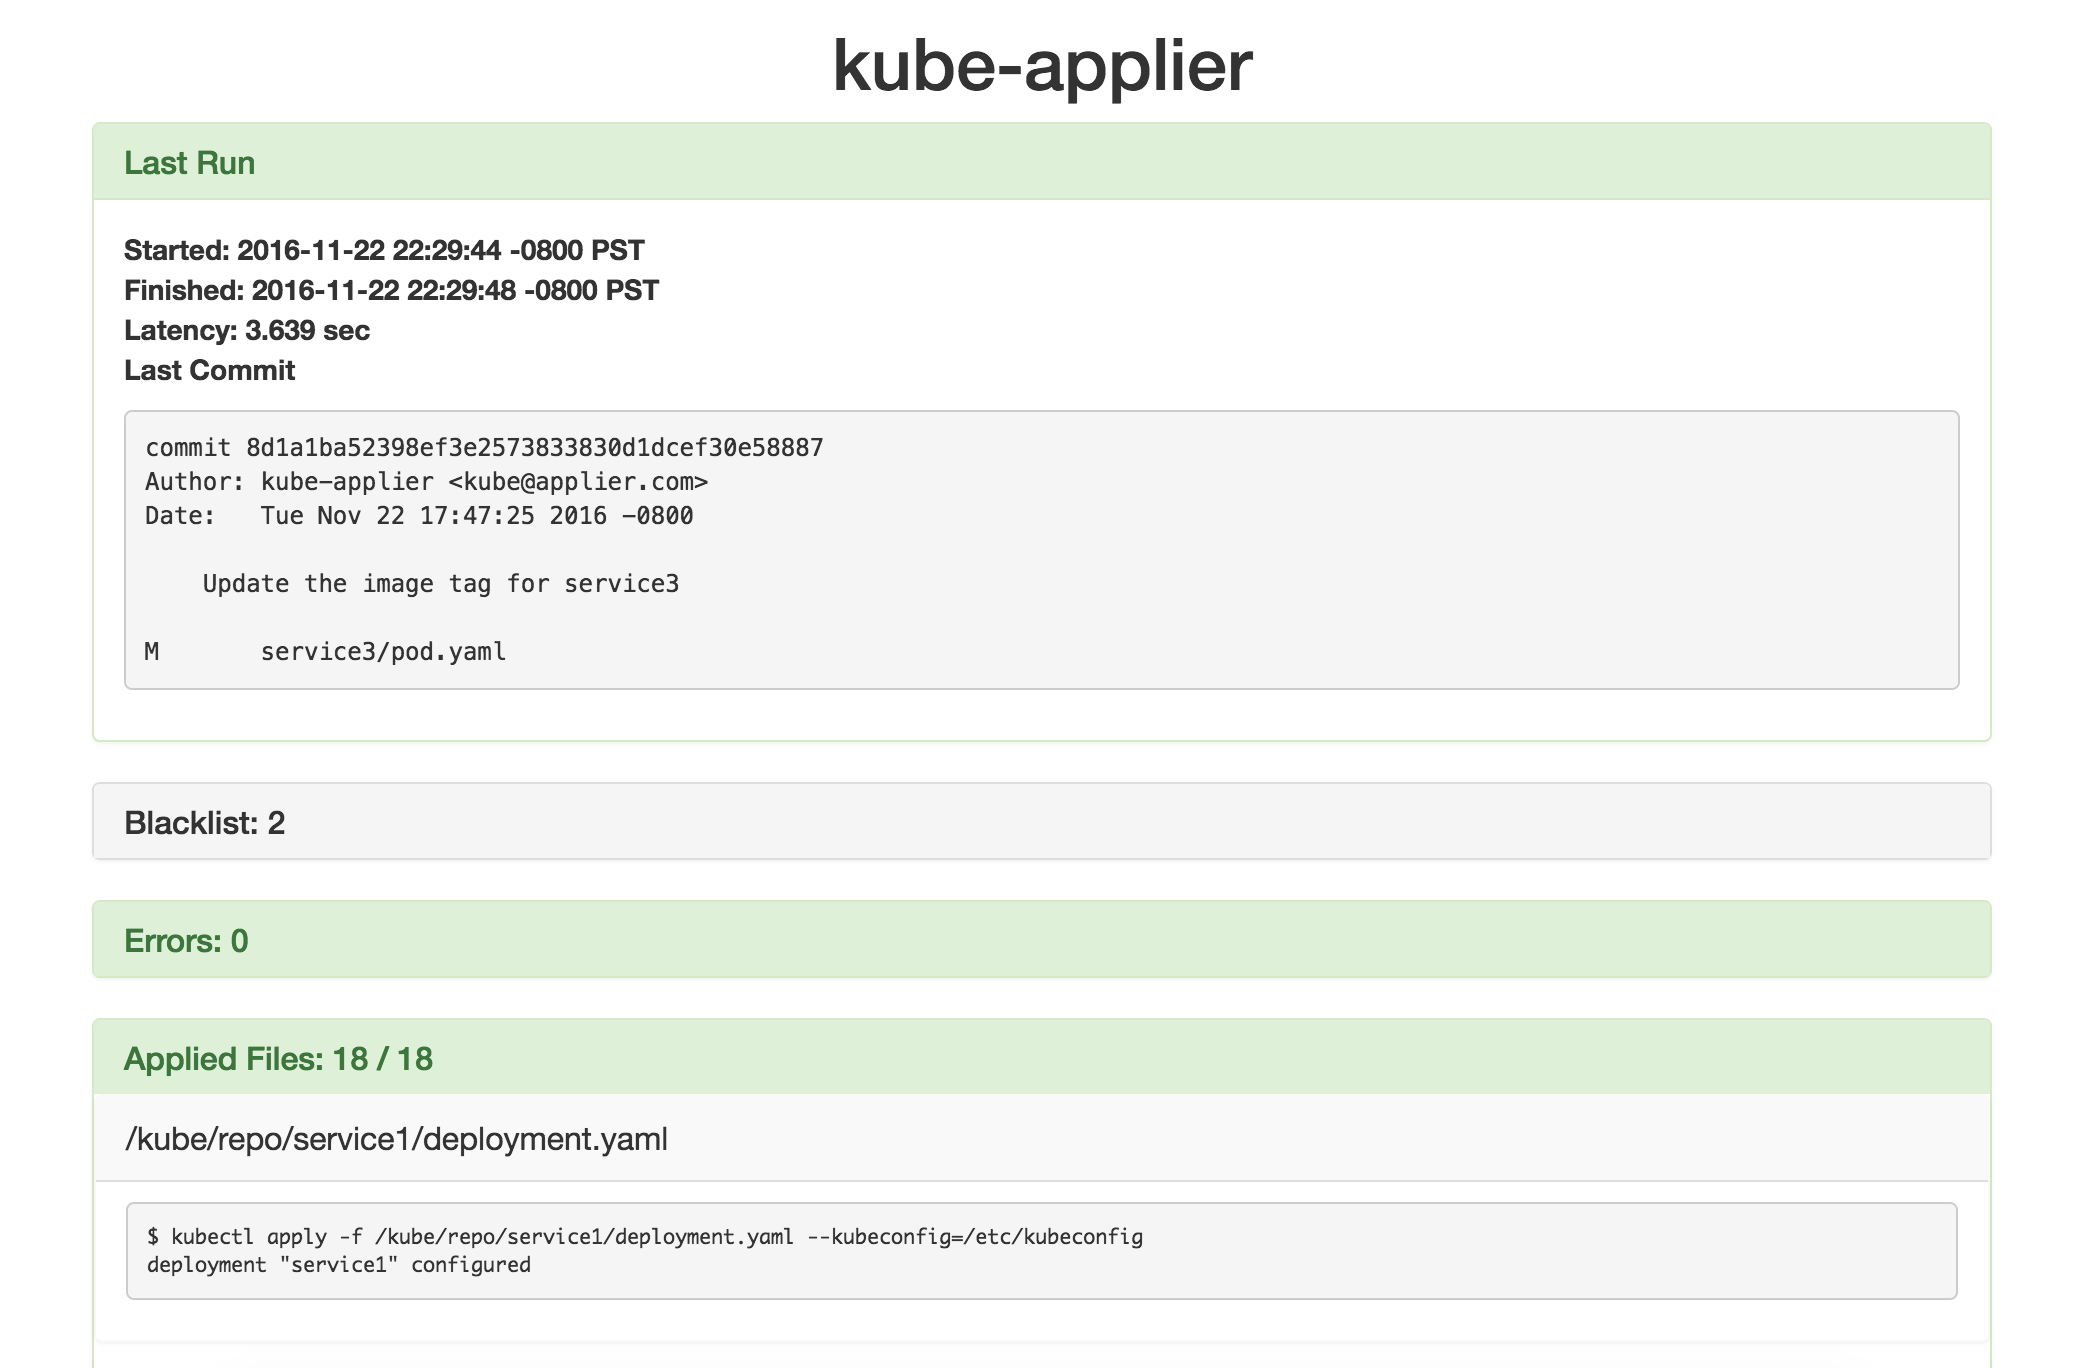
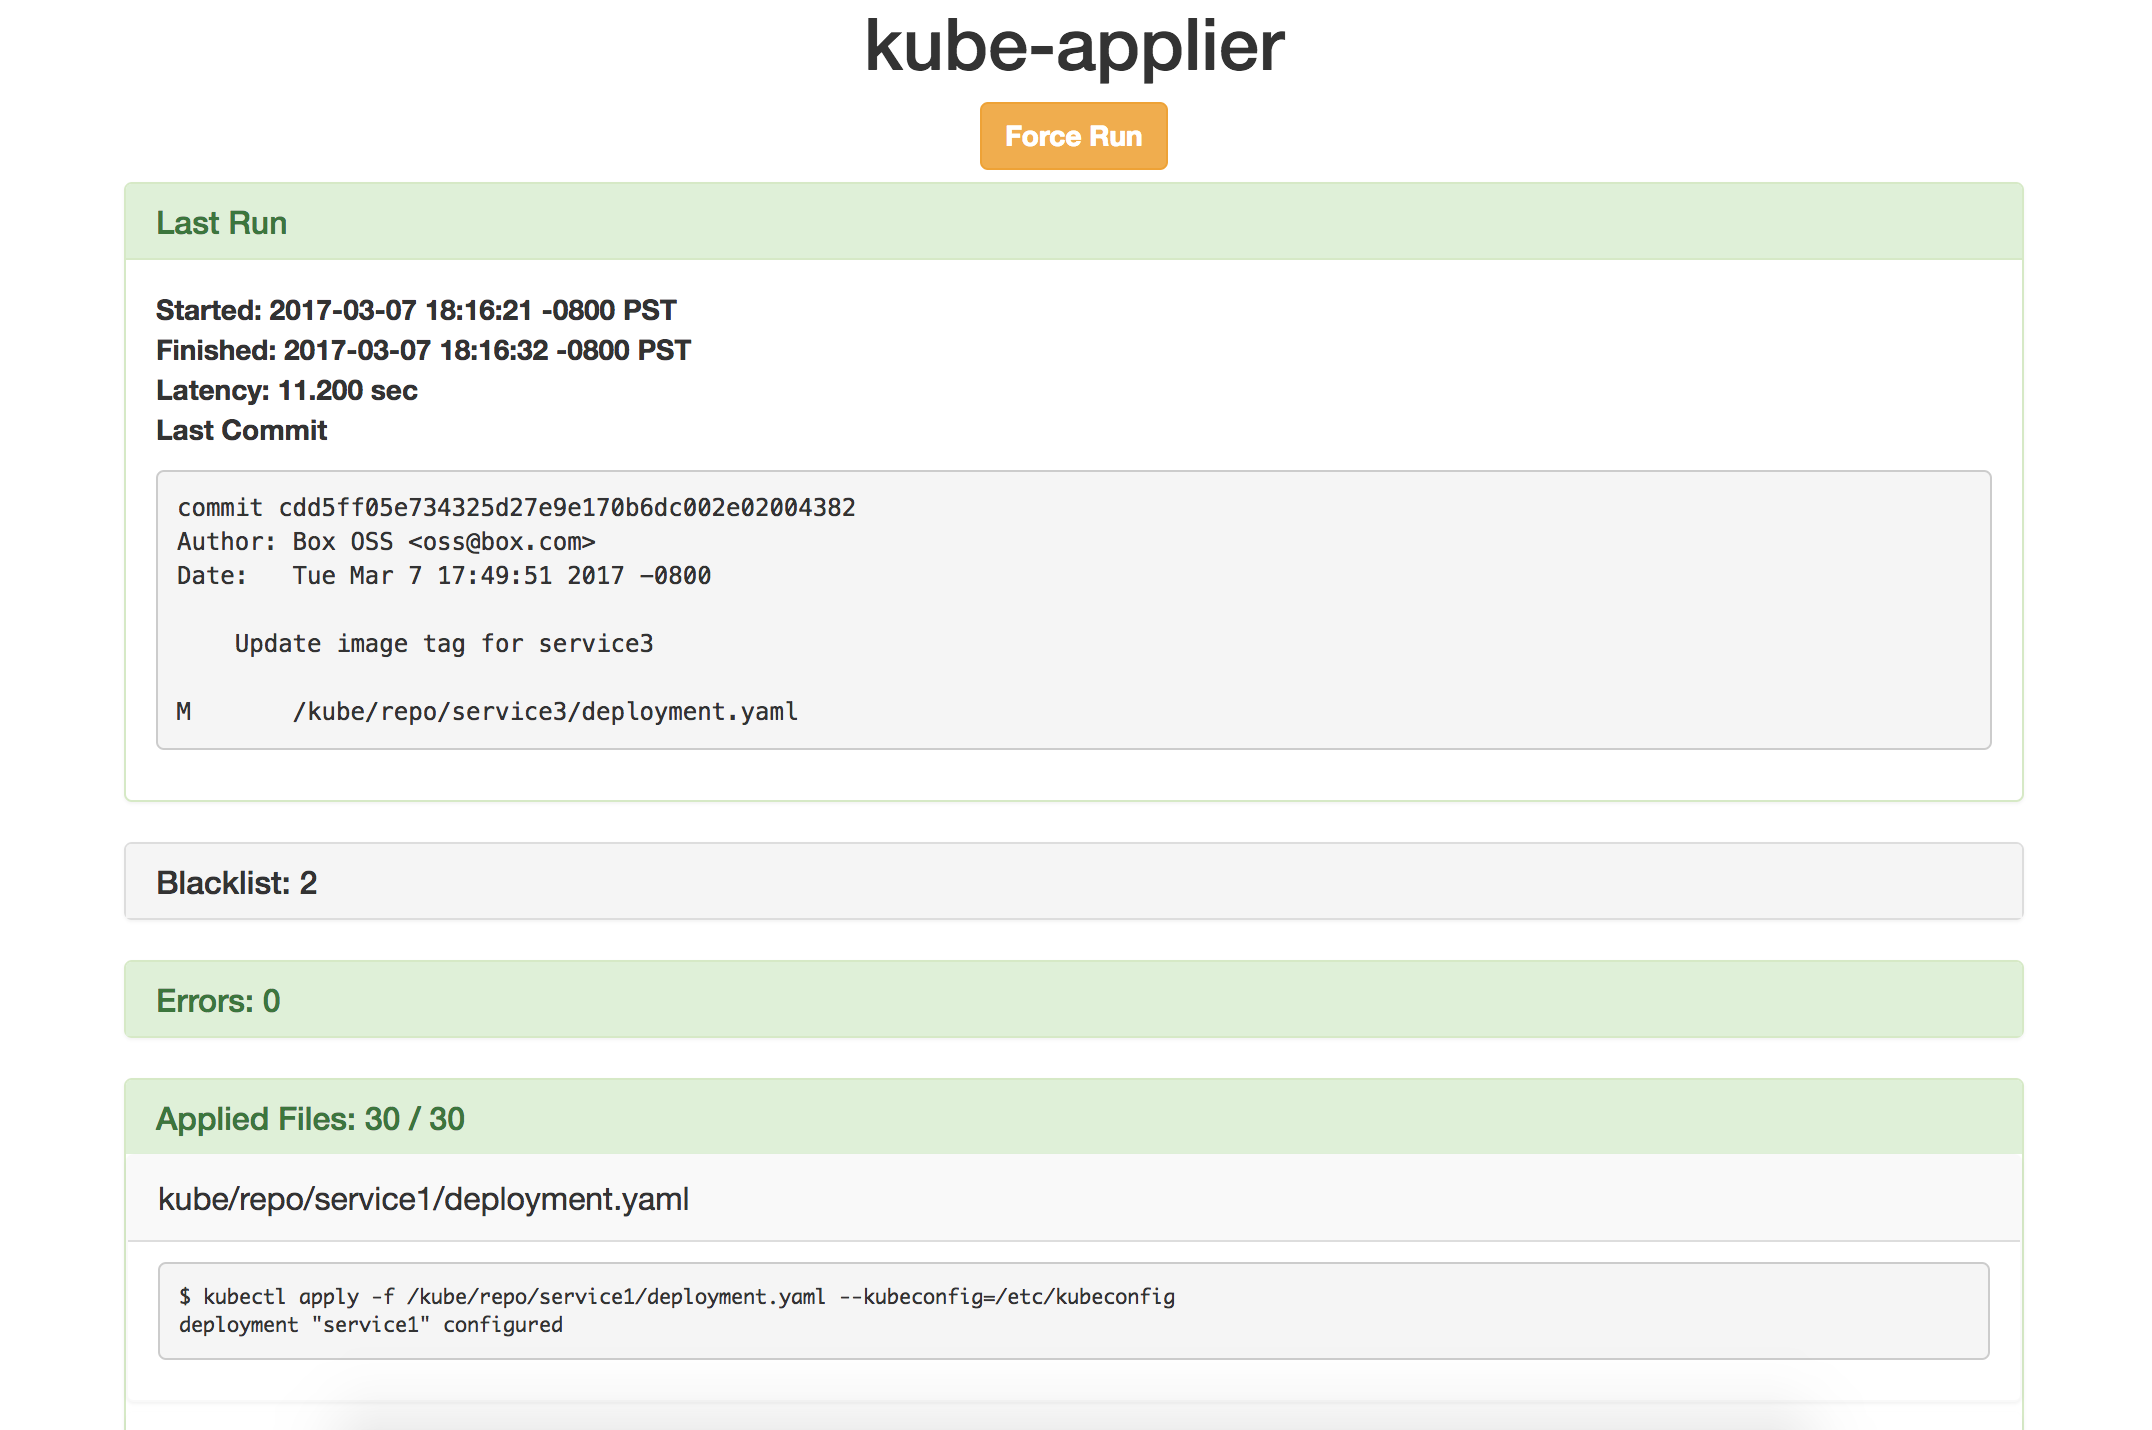
Update README

Changed region(s): [[0.0312, 0.0, 0.9669, 0.5526], [0.0312, 0.5833, 0.9669, 0.9518], [0.0624, 0.4912, 0.0936, 0.5219]]

diff --git a/README.md b/README.md
@@ -15,6 +15,7 @@ kube-applier serves a [status page](#status-ui) and provides [metrics](#metrics)
 * [Docker (1.10+)](https://docs.docker.com/engine/getstarted/step_one/#step-1-get-docker)
 * [Kubernetes cluster (1.2+)](http://kubernetes.io/docs/getting-started-guides/binary_release/)
     * The kubectl version specified in the Dockerfile must be either the same minor release as the cluster API server, or one release behind the server (e.g. client 1.3 and server 1.4 is fine, but client 1.4 and server 1.3 is not).
+    * There are [many](https://github.com/kubernetes/kubernetes/issues/40119) [known](https://github.com/kubernetes/kubernetes/issues/29542) [issues](https://github.com/kubernetes/kubernetes/issues/39906) with using `kubectl apply` to apply ThirdPartyResource objects. These issues will be [fixed in Kubernetes 1.6](https://github.com/kubernetes/kubernetes/pull/40666).
 
 ## Setup
 
@@ -91,6 +92,8 @@ Given that the `$REPO_PATH` directory is a Git repo or located within one, it is
 
 No. If a file is removed from the `$REPO_PATH` directory, kube-applier will no longer apply the file, but kube-applier **WILL NOT** delete the cluster object(s) described by the file. These objects must be manually cleaned up using `kubectl delete`.
 
+### "Force Run" Feature
+In rare cases, you may wish to trigger a kube-applier run without checking in a commit or waiting for the next scheduled run (e.g. some of your files failed to apply because of some background condition in the cluster, and you have fixed it since the last run). This can be accomplished with the "Force Run" button on the status page, which starts a run immediately if no run is currently in progress, or queues a run to start upon completion of the current run. Only one run may sit in the queue at any given time.
 
 ## Monitoring
 ### Status UI
